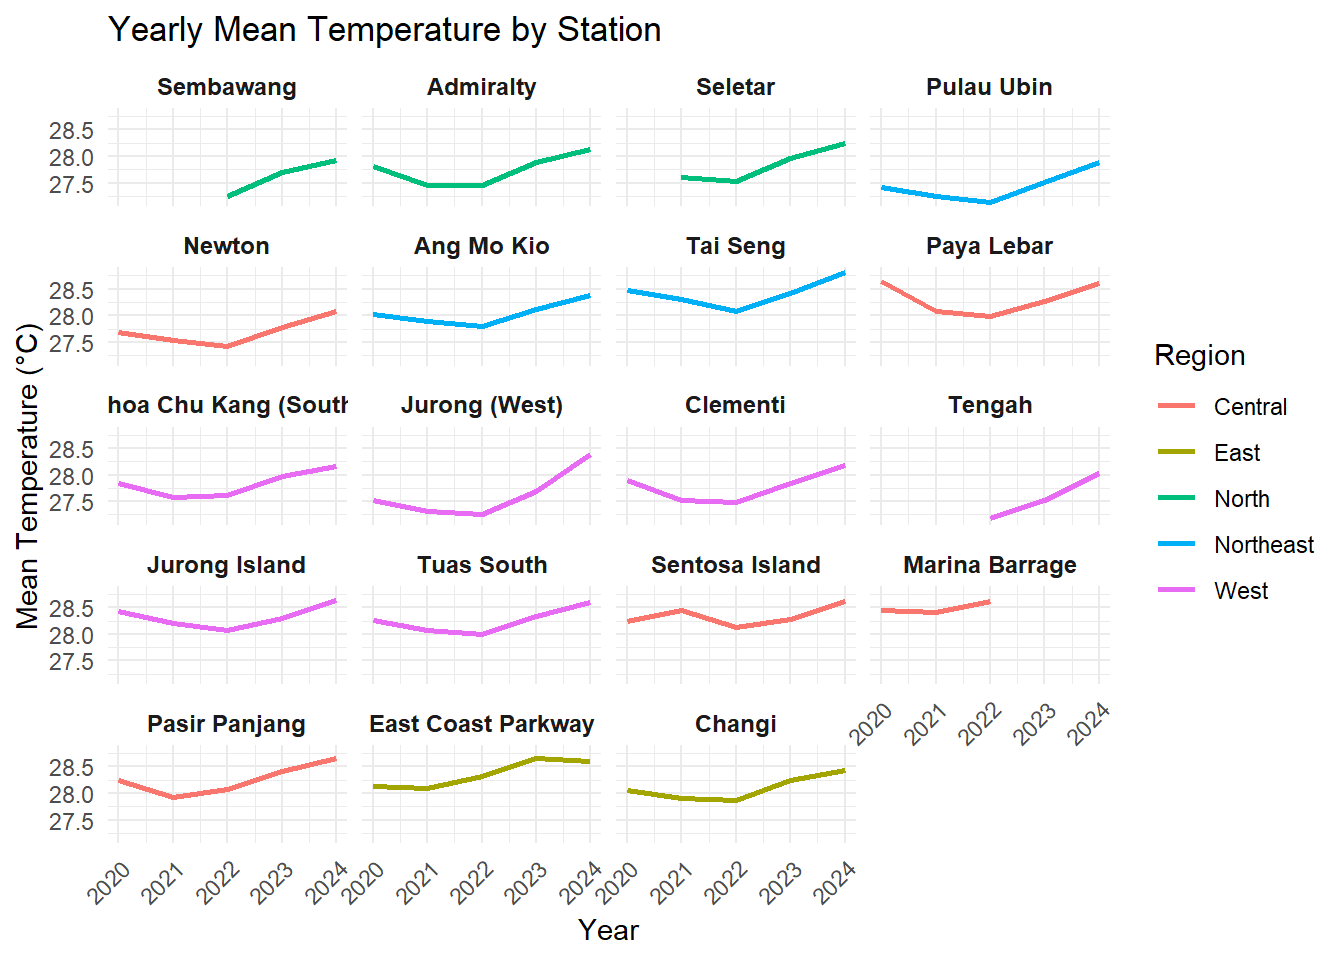
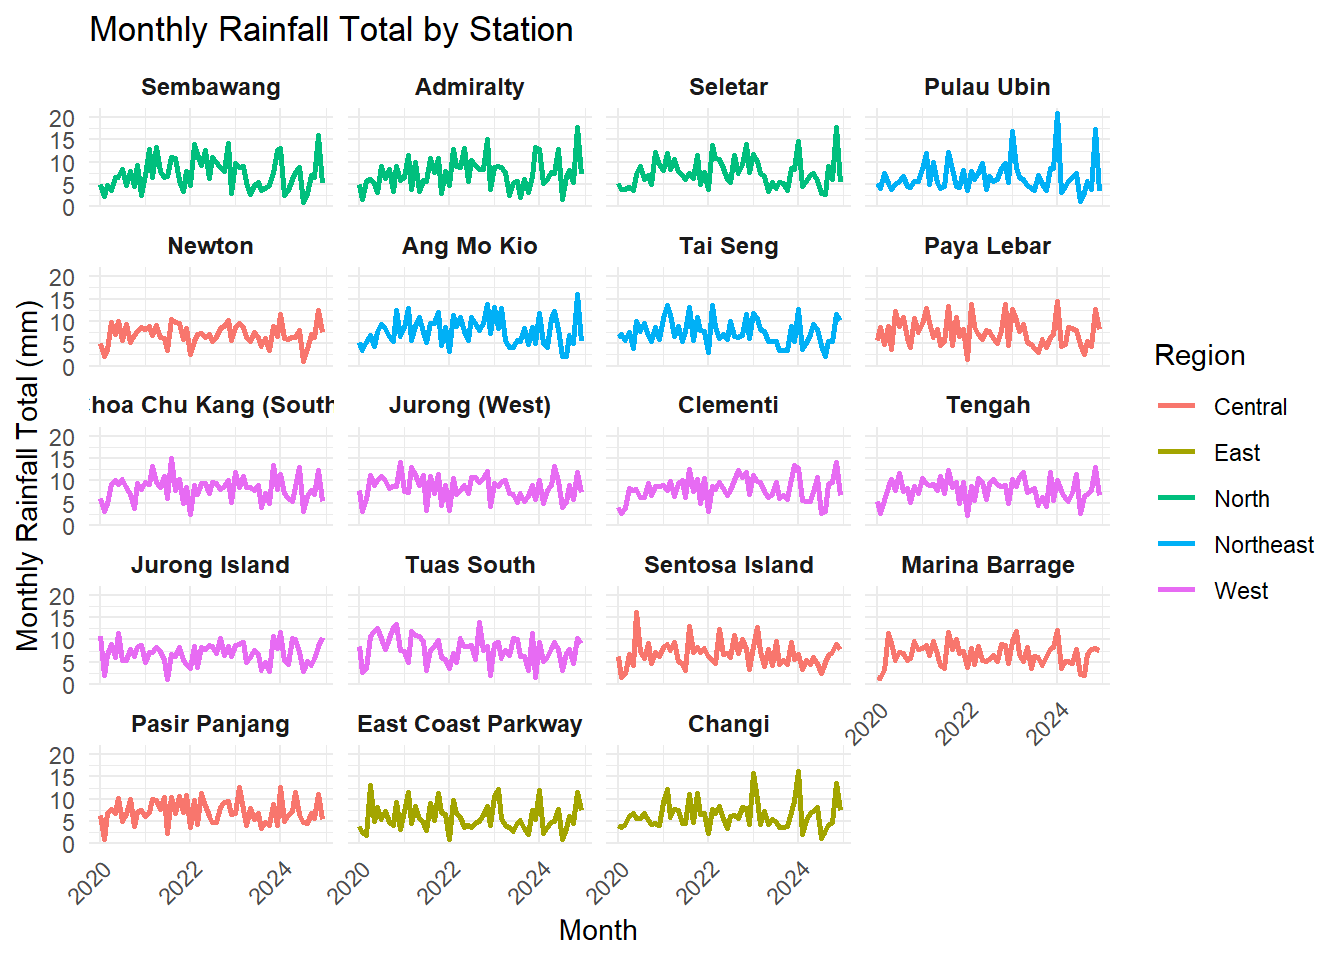
Commit after editing Take-home Exercise 3

diff --git a/_site/Take-home_Ex/Take-home_Ex03/Take-home_Ex03.html b/_site/Take-home_Ex/Take-home_Ex03/Take-home_Ex03.html
@@ -274,6 +274,7 @@ pre > code.sourceCode > span > a:first-child::before { text-decoration: underlin
   <li><a href="#visualize-the-data-with-facet_geo" id="toc-visualize-the-data-with-facet_geo" class="nav-link" data-scroll-target="#visualize-the-data-with-facet_geo">Visualize the Data with <code>facet_geo()</code></a>
   <ul class="collapse">
   <li><a href="#monthly-mean-temperature" id="toc-monthly-mean-temperature" class="nav-link" data-scroll-target="#monthly-mean-temperature">Monthly Mean Temperature:</a></li>
+  <li><a href="#monthly-rainfall-total" id="toc-monthly-rainfall-total" class="nav-link" data-scroll-target="#monthly-rainfall-total">Monthly Rainfall Total:</a></li>
   <li><a href="#yearly-mean-temperature" id="toc-yearly-mean-temperature" class="nav-link" data-scroll-target="#yearly-mean-temperature">Yearly Mean Temperature:</a></li>
   </ul></li>
   </ul>
@@ -409,23 +410,55 @@ date  (1): Date
 </div>
 </div>
 </section>
-<section id="yearly-mean-temperature" class="level3">
-<h3 class="anchored" data-anchor-id="yearly-mean-temperature">Yearly Mean Temperature:</h3>
+<section id="monthly-rainfall-total" class="level3">
+<h3 class="anchored" data-anchor-id="monthly-rainfall-total">Monthly Rainfall Total:</h3>
 <div class="cell">
-<div class="sourceCode cell-code" id="cb9"><pre class="sourceCode r code-with-copy"><code class="sourceCode r"><span id="cb9-1"><a href="#cb9-1" aria-hidden="true" tabindex="-1"></a><span class="co"># Aggregate to yearly means</span></span>
-<span id="cb9-2"><a href="#cb9-2" aria-hidden="true" tabindex="-1"></a>weather_yearly <span class="ot">&lt;-</span> weather_data <span class="sc">%&gt;%</span></span>
-<span id="cb9-3"><a href="#cb9-3" aria-hidden="true" tabindex="-1"></a>  <span class="fu">mutate</span>(<span class="at">Year =</span> <span class="fu">year</span>(Date)) <span class="sc">%&gt;%</span></span>
-<span id="cb9-4"><a href="#cb9-4" aria-hidden="true" tabindex="-1"></a>  <span class="fu">group_by</span>(Station, Region, Year) <span class="sc">%&gt;%</span></span>
-<span id="cb9-5"><a href="#cb9-5" aria-hidden="true" tabindex="-1"></a>  <span class="fu">summarise</span>(<span class="st">`</span><span class="at">Mean Temperature (°C)</span><span class="st">`</span> <span class="ot">=</span> <span class="fu">mean</span>(<span class="st">`</span><span class="at">Mean Temperature (°C)</span><span class="st">`</span>, <span class="at">na.rm =</span> <span class="cn">TRUE</span>), <span class="at">.groups =</span> <span class="st">"drop"</span>)</span>
+<div class="sourceCode cell-code" id="cb9"><pre class="sourceCode r code-with-copy"><code class="sourceCode r"><span id="cb9-1"><a href="#cb9-1" aria-hidden="true" tabindex="-1"></a><span class="co"># Aggregate to monthly means</span></span>
+<span id="cb9-2"><a href="#cb9-2" aria-hidden="true" tabindex="-1"></a>weather_monthly <span class="ot">&lt;-</span> weather_data <span class="sc">%&gt;%</span></span>
+<span id="cb9-3"><a href="#cb9-3" aria-hidden="true" tabindex="-1"></a>  <span class="fu">mutate</span>(<span class="at">Month =</span> <span class="fu">floor_date</span>(Date, <span class="st">"month"</span>)) <span class="sc">%&gt;%</span></span>
+<span id="cb9-4"><a href="#cb9-4" aria-hidden="true" tabindex="-1"></a>  <span class="fu">group_by</span>(Station, Region, Month) <span class="sc">%&gt;%</span></span>
+<span id="cb9-5"><a href="#cb9-5" aria-hidden="true" tabindex="-1"></a>  <span class="fu">summarise</span>(<span class="st">`</span><span class="at">Daily Rainfall Total (mm)</span><span class="st">`</span> <span class="ot">=</span> <span class="fu">mean</span>(<span class="st">`</span><span class="at">Daily Rainfall Total (mm)</span><span class="st">`</span>, <span class="at">na.rm =</span> <span class="cn">TRUE</span>), <span class="at">.groups =</span> <span class="st">"drop"</span>)</span>
 <span id="cb9-6"><a href="#cb9-6" aria-hidden="true" tabindex="-1"></a></span>
-<span id="cb9-7"><a href="#cb9-7" aria-hidden="true" tabindex="-1"></a><span class="fu">ggplot</span>(weather_yearly, <span class="fu">aes</span>(<span class="at">x =</span> Year, <span class="at">y =</span> <span class="st">`</span><span class="at">Mean Temperature (°C)</span><span class="st">`</span>, <span class="at">color =</span> Region)) <span class="sc">+</span></span>
+<span id="cb9-7"><a href="#cb9-7" aria-hidden="true" tabindex="-1"></a><span class="fu">ggplot</span>(weather_monthly, <span class="fu">aes</span>(<span class="at">x =</span> Month, <span class="at">y =</span> <span class="st">`</span><span class="at">Daily Rainfall Total (mm)</span><span class="st">`</span>, <span class="at">color =</span> Region)) <span class="sc">+</span></span>
 <span id="cb9-8"><a href="#cb9-8" aria-hidden="true" tabindex="-1"></a>  <span class="fu">geom_line</span>(<span class="at">size =</span> <span class="dv">1</span>) <span class="sc">+</span>  </span>
 <span id="cb9-9"><a href="#cb9-9" aria-hidden="true" tabindex="-1"></a>  <span class="fu">facet_geo</span>(<span class="sc">~</span> Station, <span class="at">grid =</span> custom_grid) <span class="sc">+</span></span>
 <span id="cb9-10"><a href="#cb9-10" aria-hidden="true" tabindex="-1"></a>  <span class="fu">theme_minimal</span>() <span class="sc">+</span></span>
-<span id="cb9-11"><a href="#cb9-11" aria-hidden="true" tabindex="-1"></a>  <span class="fu">labs</span>(<span class="at">title =</span> <span class="st">"Yearly Mean Temperature by Station"</span>,</span>
-<span id="cb9-12"><a href="#cb9-12" aria-hidden="true" tabindex="-1"></a>       <span class="at">x =</span> <span class="st">"Year"</span>, <span class="at">y =</span> <span class="st">"Mean Temperature (°C)"</span>) <span class="sc">+</span></span>
+<span id="cb9-11"><a href="#cb9-11" aria-hidden="true" tabindex="-1"></a>  <span class="fu">labs</span>(<span class="at">title =</span> <span class="st">"Monthly Rainfall Total by Station"</span>,</span>
+<span id="cb9-12"><a href="#cb9-12" aria-hidden="true" tabindex="-1"></a>       <span class="at">x =</span> <span class="st">"Month"</span>, <span class="at">y =</span> <span class="st">"Monthly Rainfall Total (mm)"</span>) <span class="sc">+</span></span>
 <span id="cb9-13"><a href="#cb9-13" aria-hidden="true" tabindex="-1"></a>  <span class="fu">theme</span>(<span class="at">strip.text =</span> <span class="fu">element_text</span>(<span class="at">size =</span> <span class="dv">9</span>, <span class="at">face =</span> <span class="st">"bold"</span>),</span>
 <span id="cb9-14"><a href="#cb9-14" aria-hidden="true" tabindex="-1"></a>        <span class="at">axis.text.x =</span> <span class="fu">element_text</span>(<span class="at">angle =</span> <span class="dv">45</span>, <span class="at">hjust =</span> <span class="dv">1</span>))</span></code><button title="Copy to Clipboard" class="code-copy-button"><i class="bi"></i></button></pre></div>
+<div class="cell-output cell-output-stderr">
+<pre><code>Note: You provided a user-specified grid. If this is a generally-useful
+  grid, please consider submitting it to become a part of the geofacet
+  package. You can do this easily by calling:
+  grid_submit(__grid_df_name__)</code></pre>
+</div>
+<div class="cell-output-display">
+<div>
+<figure class="figure">
+<p><img src="Take-home_Ex03_files/figure-html/unnamed-chunk-5-1.png" class="img-fluid figure-img" width="672"></p>
+</figure>
+</div>
+</div>
+</div>
+</section>
+<section id="yearly-mean-temperature" class="level3">
+<h3 class="anchored" data-anchor-id="yearly-mean-temperature">Yearly Mean Temperature:</h3>
+<div class="cell">
+<div class="sourceCode cell-code" id="cb11"><pre class="sourceCode r code-with-copy"><code class="sourceCode r"><span id="cb11-1"><a href="#cb11-1" aria-hidden="true" tabindex="-1"></a><span class="co"># Aggregate to yearly means</span></span>
+<span id="cb11-2"><a href="#cb11-2" aria-hidden="true" tabindex="-1"></a>weather_yearly <span class="ot">&lt;-</span> weather_data <span class="sc">%&gt;%</span></span>
+<span id="cb11-3"><a href="#cb11-3" aria-hidden="true" tabindex="-1"></a>  <span class="fu">mutate</span>(<span class="at">Year =</span> <span class="fu">year</span>(Date)) <span class="sc">%&gt;%</span></span>
+<span id="cb11-4"><a href="#cb11-4" aria-hidden="true" tabindex="-1"></a>  <span class="fu">group_by</span>(Station, Region, Year) <span class="sc">%&gt;%</span></span>
+<span id="cb11-5"><a href="#cb11-5" aria-hidden="true" tabindex="-1"></a>  <span class="fu">summarise</span>(<span class="st">`</span><span class="at">Mean Temperature (°C)</span><span class="st">`</span> <span class="ot">=</span> <span class="fu">mean</span>(<span class="st">`</span><span class="at">Mean Temperature (°C)</span><span class="st">`</span>, <span class="at">na.rm =</span> <span class="cn">TRUE</span>), <span class="at">.groups =</span> <span class="st">"drop"</span>)</span>
+<span id="cb11-6"><a href="#cb11-6" aria-hidden="true" tabindex="-1"></a></span>
+<span id="cb11-7"><a href="#cb11-7" aria-hidden="true" tabindex="-1"></a><span class="fu">ggplot</span>(weather_yearly, <span class="fu">aes</span>(<span class="at">x =</span> Year, <span class="at">y =</span> <span class="st">`</span><span class="at">Mean Temperature (°C)</span><span class="st">`</span>, <span class="at">color =</span> Region)) <span class="sc">+</span></span>
+<span id="cb11-8"><a href="#cb11-8" aria-hidden="true" tabindex="-1"></a>  <span class="fu">geom_line</span>(<span class="at">size =</span> <span class="dv">1</span>) <span class="sc">+</span>  </span>
+<span id="cb11-9"><a href="#cb11-9" aria-hidden="true" tabindex="-1"></a>  <span class="fu">facet_geo</span>(<span class="sc">~</span> Station, <span class="at">grid =</span> custom_grid) <span class="sc">+</span></span>
+<span id="cb11-10"><a href="#cb11-10" aria-hidden="true" tabindex="-1"></a>  <span class="fu">theme_minimal</span>() <span class="sc">+</span></span>
+<span id="cb11-11"><a href="#cb11-11" aria-hidden="true" tabindex="-1"></a>  <span class="fu">labs</span>(<span class="at">title =</span> <span class="st">"Yearly Mean Temperature by Station"</span>,</span>
+<span id="cb11-12"><a href="#cb11-12" aria-hidden="true" tabindex="-1"></a>       <span class="at">x =</span> <span class="st">"Year"</span>, <span class="at">y =</span> <span class="st">"Mean Temperature (°C)"</span>) <span class="sc">+</span></span>
+<span id="cb11-13"><a href="#cb11-13" aria-hidden="true" tabindex="-1"></a>  <span class="fu">theme</span>(<span class="at">strip.text =</span> <span class="fu">element_text</span>(<span class="at">size =</span> <span class="dv">9</span>, <span class="at">face =</span> <span class="st">"bold"</span>),</span>
+<span id="cb11-14"><a href="#cb11-14" aria-hidden="true" tabindex="-1"></a>        <span class="at">axis.text.x =</span> <span class="fu">element_text</span>(<span class="at">angle =</span> <span class="dv">45</span>, <span class="at">hjust =</span> <span class="dv">1</span>))</span></code><button title="Copy to Clipboard" class="code-copy-button"><i class="bi"></i></button></pre></div>
 <div class="cell-output cell-output-stderr">
 <pre><code>Note: You provided a user-specified grid. If this is a generally-useful
   grid, please consider submitting it to become a part of the geofacet
@@ -439,29 +472,29 @@ date  (1): Date
 <div class="cell-output-display">
 <div>
 <figure class="figure">
-<p><img src="Take-home_Ex03_files/figure-html/unnamed-chunk-5-1.png" class="img-fluid figure-img" width="672"></p>
+<p><img src="Take-home_Ex03_files/figure-html/unnamed-chunk-6-1.png" class="img-fluid figure-img" width="672"></p>
 </figure>
 </div>
 </div>
 </div>
 <div class="cell">
-<div class="sourceCode cell-code" id="cb12"><pre class="sourceCode r code-with-copy"><code class="sourceCode r"><span id="cb12-1"><a href="#cb12-1" aria-hidden="true" tabindex="-1"></a><span class="co"># Filter for 2024 and aggregate to monthly means</span></span>
-<span id="cb12-2"><a href="#cb12-2" aria-hidden="true" tabindex="-1"></a>weather_2024_monthly <span class="ot">&lt;-</span> weather_data <span class="sc">%&gt;%</span></span>
-<span id="cb12-3"><a href="#cb12-3" aria-hidden="true" tabindex="-1"></a>  <span class="fu">filter</span>(<span class="fu">year</span>(Date) <span class="sc">==</span> <span class="dv">2024</span>) <span class="sc">%&gt;%</span></span>
-<span id="cb12-4"><a href="#cb12-4" aria-hidden="true" tabindex="-1"></a>  <span class="fu">mutate</span>(<span class="at">Month =</span> <span class="fu">floor_date</span>(Date, <span class="st">"month"</span>)) <span class="sc">%&gt;%</span></span>
-<span id="cb12-5"><a href="#cb12-5" aria-hidden="true" tabindex="-1"></a>  <span class="fu">group_by</span>(Station, Region, Month) <span class="sc">%&gt;%</span></span>
-<span id="cb12-6"><a href="#cb12-6" aria-hidden="true" tabindex="-1"></a>  <span class="fu">summarise</span>(<span class="st">`</span><span class="at">Mean Temperature (°C)</span><span class="st">`</span> <span class="ot">=</span> <span class="fu">mean</span>(<span class="st">`</span><span class="at">Mean Temperature (°C)</span><span class="st">`</span>, <span class="at">na.rm =</span> <span class="cn">TRUE</span>), <span class="at">.groups =</span> <span class="st">"drop"</span>)</span>
-<span id="cb12-7"><a href="#cb12-7" aria-hidden="true" tabindex="-1"></a></span>
-<span id="cb12-8"><a href="#cb12-8" aria-hidden="true" tabindex="-1"></a><span class="co"># Geofacet plot for 2024</span></span>
-<span id="cb12-9"><a href="#cb12-9" aria-hidden="true" tabindex="-1"></a><span class="fu">ggplot</span>(weather_2024_monthly, <span class="fu">aes</span>(<span class="at">x =</span> Month, <span class="at">y =</span> <span class="st">`</span><span class="at">Mean Temperature (°C)</span><span class="st">`</span>, <span class="at">color =</span> Region)) <span class="sc">+</span></span>
-<span id="cb12-10"><a href="#cb12-10" aria-hidden="true" tabindex="-1"></a>  <span class="fu">geom_line</span>(<span class="at">size =</span> <span class="dv">1</span>) <span class="sc">+</span></span>
-<span id="cb12-11"><a href="#cb12-11" aria-hidden="true" tabindex="-1"></a>  <span class="fu">facet_geo</span>(<span class="sc">~</span> Station, <span class="at">grid =</span> custom_grid) <span class="sc">+</span></span>
-<span id="cb12-12"><a href="#cb12-12" aria-hidden="true" tabindex="-1"></a>  <span class="fu">theme_minimal</span>() <span class="sc">+</span></span>
-<span id="cb12-13"><a href="#cb12-13" aria-hidden="true" tabindex="-1"></a>  <span class="fu">labs</span>(<span class="at">title =</span> <span class="st">"Monthly Mean Temperature by Station (2024)"</span>,</span>
-<span id="cb12-14"><a href="#cb12-14" aria-hidden="true" tabindex="-1"></a>       <span class="at">x =</span> <span class="st">"Month"</span>, <span class="at">y =</span> <span class="st">"Mean Temperature (°C)"</span>) <span class="sc">+</span></span>
-<span id="cb12-15"><a href="#cb12-15" aria-hidden="true" tabindex="-1"></a>  <span class="fu">scale_x_date</span>(<span class="at">date_labels =</span> <span class="st">"%b"</span>, <span class="at">date_breaks =</span> <span class="st">"1 month"</span>) <span class="sc">+</span></span>
-<span id="cb12-16"><a href="#cb12-16" aria-hidden="true" tabindex="-1"></a>  <span class="fu">theme</span>(<span class="at">strip.text =</span> <span class="fu">element_text</span>(<span class="at">size =</span> <span class="dv">9</span>, <span class="at">face =</span> <span class="st">"bold"</span>),</span>
-<span id="cb12-17"><a href="#cb12-17" aria-hidden="true" tabindex="-1"></a>        <span class="at">axis.text.x =</span> <span class="fu">element_text</span>(<span class="at">angle =</span> <span class="dv">45</span>, <span class="at">hjust =</span> <span class="dv">1</span>))</span></code><button title="Copy to Clipboard" class="code-copy-button"><i class="bi"></i></button></pre></div>
+<div class="sourceCode cell-code" id="cb14"><pre class="sourceCode r code-with-copy"><code class="sourceCode r"><span id="cb14-1"><a href="#cb14-1" aria-hidden="true" tabindex="-1"></a><span class="co"># Filter for 2024 and aggregate to monthly means</span></span>
+<span id="cb14-2"><a href="#cb14-2" aria-hidden="true" tabindex="-1"></a>weather_2024_monthly <span class="ot">&lt;-</span> weather_data <span class="sc">%&gt;%</span></span>
+<span id="cb14-3"><a href="#cb14-3" aria-hidden="true" tabindex="-1"></a>  <span class="fu">filter</span>(<span class="fu">year</span>(Date) <span class="sc">==</span> <span class="dv">2024</span>) <span class="sc">%&gt;%</span></span>
+<span id="cb14-4"><a href="#cb14-4" aria-hidden="true" tabindex="-1"></a>  <span class="fu">mutate</span>(<span class="at">Month =</span> <span class="fu">floor_date</span>(Date, <span class="st">"month"</span>)) <span class="sc">%&gt;%</span></span>
+<span id="cb14-5"><a href="#cb14-5" aria-hidden="true" tabindex="-1"></a>  <span class="fu">group_by</span>(Station, Region, Month) <span class="sc">%&gt;%</span></span>
+<span id="cb14-6"><a href="#cb14-6" aria-hidden="true" tabindex="-1"></a>  <span class="fu">summarise</span>(<span class="st">`</span><span class="at">Mean Temperature (°C)</span><span class="st">`</span> <span class="ot">=</span> <span class="fu">mean</span>(<span class="st">`</span><span class="at">Mean Temperature (°C)</span><span class="st">`</span>, <span class="at">na.rm =</span> <span class="cn">TRUE</span>), <span class="at">.groups =</span> <span class="st">"drop"</span>)</span>
+<span id="cb14-7"><a href="#cb14-7" aria-hidden="true" tabindex="-1"></a></span>
+<span id="cb14-8"><a href="#cb14-8" aria-hidden="true" tabindex="-1"></a><span class="co"># Geofacet plot for 2024</span></span>
+<span id="cb14-9"><a href="#cb14-9" aria-hidden="true" tabindex="-1"></a><span class="fu">ggplot</span>(weather_2024_monthly, <span class="fu">aes</span>(<span class="at">x =</span> Month, <span class="at">y =</span> <span class="st">`</span><span class="at">Mean Temperature (°C)</span><span class="st">`</span>, <span class="at">color =</span> Region)) <span class="sc">+</span></span>
+<span id="cb14-10"><a href="#cb14-10" aria-hidden="true" tabindex="-1"></a>  <span class="fu">geom_line</span>(<span class="at">size =</span> <span class="dv">1</span>) <span class="sc">+</span></span>
+<span id="cb14-11"><a href="#cb14-11" aria-hidden="true" tabindex="-1"></a>  <span class="fu">facet_geo</span>(<span class="sc">~</span> Station, <span class="at">grid =</span> custom_grid) <span class="sc">+</span></span>
+<span id="cb14-12"><a href="#cb14-12" aria-hidden="true" tabindex="-1"></a>  <span class="fu">theme_minimal</span>() <span class="sc">+</span></span>
+<span id="cb14-13"><a href="#cb14-13" aria-hidden="true" tabindex="-1"></a>  <span class="fu">labs</span>(<span class="at">title =</span> <span class="st">"Monthly Mean Temperature by Station (2024)"</span>,</span>
+<span id="cb14-14"><a href="#cb14-14" aria-hidden="true" tabindex="-1"></a>       <span class="at">x =</span> <span class="st">"Month"</span>, <span class="at">y =</span> <span class="st">"Mean Temperature (°C)"</span>) <span class="sc">+</span></span>
+<span id="cb14-15"><a href="#cb14-15" aria-hidden="true" tabindex="-1"></a>  <span class="fu">scale_x_date</span>(<span class="at">date_labels =</span> <span class="st">"%b"</span>, <span class="at">date_breaks =</span> <span class="st">"1 month"</span>) <span class="sc">+</span></span>
+<span id="cb14-16"><a href="#cb14-16" aria-hidden="true" tabindex="-1"></a>  <span class="fu">theme</span>(<span class="at">strip.text =</span> <span class="fu">element_text</span>(<span class="at">size =</span> <span class="dv">9</span>, <span class="at">face =</span> <span class="st">"bold"</span>),</span>
+<span id="cb14-17"><a href="#cb14-17" aria-hidden="true" tabindex="-1"></a>        <span class="at">axis.text.x =</span> <span class="fu">element_text</span>(<span class="at">angle =</span> <span class="dv">45</span>, <span class="at">hjust =</span> <span class="dv">1</span>))</span></code><button title="Copy to Clipboard" class="code-copy-button"><i class="bi"></i></button></pre></div>
 <div class="cell-output cell-output-stderr">
 <pre><code>Note: You provided a user-specified grid. If this is a generally-useful
   grid, please consider submitting it to become a part of the geofacet
@@ -471,7 +504,7 @@ date  (1): Date
 <div class="cell-output-display">
 <div>
 <figure class="figure">
-<p><img src="Take-home_Ex03_files/figure-html/unnamed-chunk-6-1.png" class="img-fluid figure-img" width="672"></p>
+<p><img src="Take-home_Ex03_files/figure-html/unnamed-chunk-7-1.png" class="img-fluid figure-img" width="672"></p>
 </figure>
 </div>
 </div>
